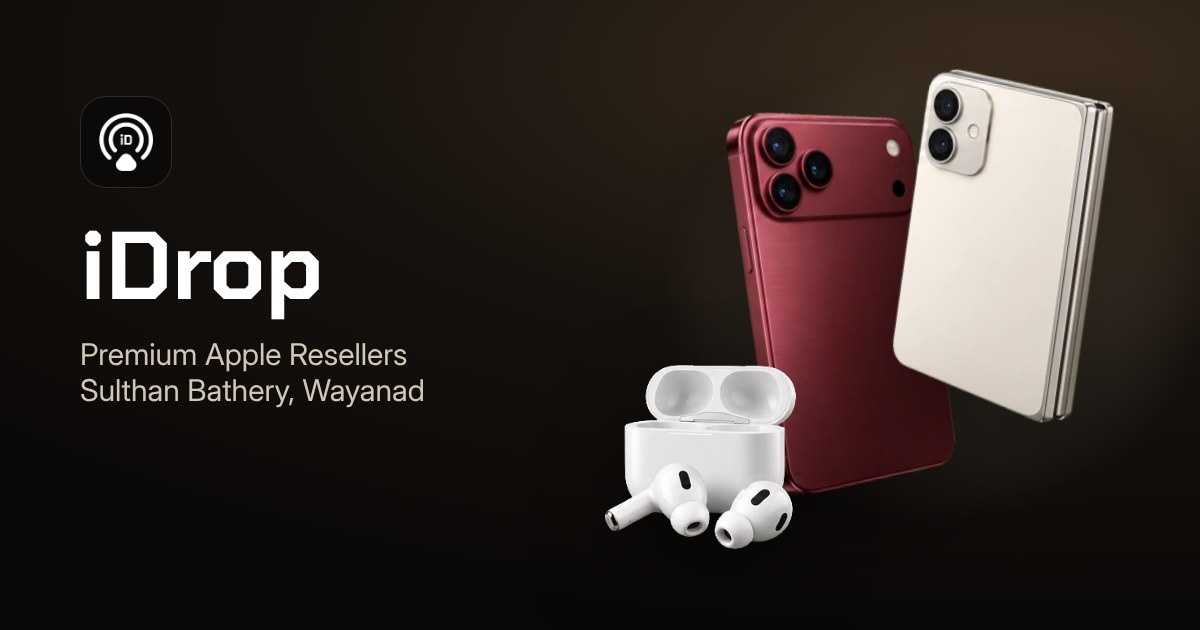
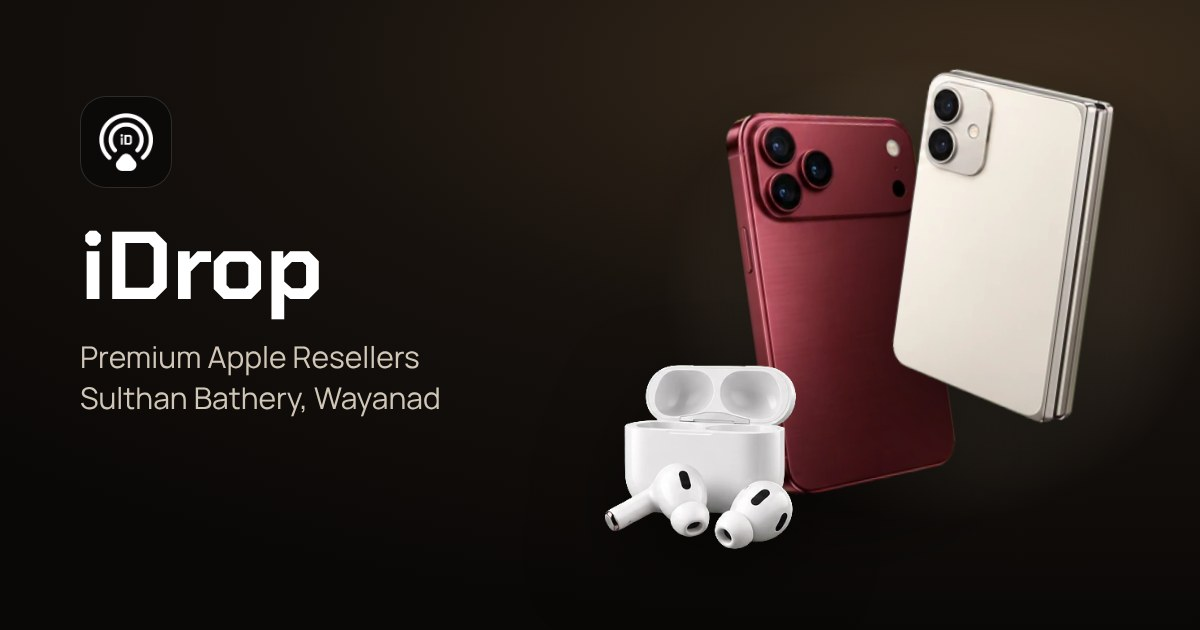
Text in Manrope, titles stay in Chakra Petch; hero without the floating cards
Claude-Session: https://claude.ai/code/session_01XzHKtWWCDNvtcARWjVRUBV

Changed region(s): [[0.0617, 0.5429, 0.37, 0.6635]]

diff --git a/site/assets/idrop.css b/site/assets/idrop.css
@@ -1,10 +1,10 @@
 /* idropdigital.com: Kuree's layout in iDrop's ink and champagne gold, with
-   iDrop's own type: Chakra Petch for titles, Inter for text.
+   iDrop's own type: Chakra Petch for titles, Manrope for text.
    No letter spacing anywhere. */
 @font-face{font-family:"Chakra Petch";font-weight:500;font-style:normal;font-display:swap;src:url(/assets/fonts/chakra-medium.woff2) format("woff2")}
 @font-face{font-family:"Chakra Petch";font-weight:600;font-style:normal;font-display:swap;src:url(/assets/fonts/chakra-semibold.woff2) format("woff2")}
 @font-face{font-family:"Chakra Petch";font-weight:700;font-style:normal;font-display:swap;src:url(/assets/fonts/chakra-bold.woff2) format("woff2")}
-@font-face{font-family:"Inter";font-weight:100 900;font-style:normal;font-display:swap;src:url(/assets/fonts/inter.woff2) format("woff2")}
+@font-face{font-family:"Manrope";font-weight:400 800;font-style:normal;font-display:swap;src:url(/assets/fonts/manrope.woff2) format("woff2")}
 
 :root{
   --ink:#0C0A09;--ink2:#1C1917;--graphite:#292524;--stone7:#44403C;--muted:#6E6762;--stone3:#D6D3D1;--stone2:#E7E5E4;--stone1:#F5F5F4;
@@ -12,7 +12,7 @@
   --gold:#B08D57;--gold2:#D8C3A0;--gold3:#EBDDC4;--goldInk:#7A5C2E;--star:#E0A82E;
   --sand:#F4EEE4;--mist:#EDF0F3;--stoneT:#F0EEEB;--blush:#F5ECE9;--sage:#EDF1EC;
   --fh:"Chakra Petch",system-ui,sans-serif;
-  --fb:"Inter",system-ui,-apple-system,"Segoe UI",sans-serif;
+  --fb:"Manrope",system-ui,-apple-system,"Segoe UI",sans-serif;
   --ease:cubic-bezier(.2,.75,.2,1);
   --sec:120px;
 }

diff --git a/tools/og.html b/tools/og.html
@@ -2,9 +2,9 @@
 <html><head><meta charset="utf-8">
 <style>
 @font-face{font-family:"Chakra Petch";font-weight:700;src:url(../site/assets/fonts/chakra-bold.woff2) format("woff2")}
-@font-face{font-family:"Inter";font-weight:100 900;src:url(../site/assets/fonts/inter.woff2) format("woff2")}
+@font-face{font-family:"Manrope";font-weight:400 800;src:url(../site/assets/fonts/manrope.woff2) format("woff2")}
 html,body{margin:0}
-.og{position:relative;width:1200px;height:630px;overflow:hidden;color:#fff;font-family:Inter,sans-serif;
+.og{position:relative;width:1200px;height:630px;overflow:hidden;color:#fff;font-family:Manrope,sans-serif;
   background:radial-gradient(120% 90% at 85% 10%,#3B2D1E 0%,#16110D 52%,#0A0807 100%)}
 .og::before{content:"";position:absolute;inset:0;background:radial-gradient(420px 360px at 78% 46%,rgba(216,195,160,.32),transparent 65%)}
 .copy{position:absolute;left:80px;top:96px;display:grid;gap:22px}

diff --git a/site/index.html b/site/index.html
@@ -21,7 +21,7 @@
 <meta property="og:image:height" content="630">
 <meta name="twitter:card" content="summary_large_image">
 <link rel="preload" href="/assets/fonts/chakra-bold.woff2" as="font" type="font/woff2" crossorigin>
-<link rel="preload" href="/assets/fonts/inter.woff2" as="font" type="font/woff2" crossorigin>
+<link rel="preload" href="/assets/fonts/manrope.woff2" as="font" type="font/woff2" crossorigin>
 <link rel="preload" href="/assets/3d/iphone-burgundy.webp" as="image">
 <link rel="stylesheet" href="/assets/idrop.css">
 <script type="application/ld+json">

diff --git a/README.md b/README.md
@@ -4,7 +4,7 @@ The website for iDrop, Sulthan Bathery, Wayanad: https://idropdigital.com
 
 | Where | What |
 | --- | --- |
-| `site/` | The site: `index.html`, `assets/idrop.css`, `assets/idrop.js`, fonts (Chakra Petch, Inter), 3D pieces, brand files, the terms PDFs |
+| `site/` | The site: `index.html`, `assets/idrop.css`, `assets/idrop.js`, fonts (Chakra Petch, Manrope), 3D pieces, brand files, the terms PDFs |
 | `deploy/` | `nginx.conf` and the Dokploy compose file |
 | `tools/` | `art/` the 3D source sheets, `key3d.py` that cuts them, `og.html` for the share picture, `brand/` the logo source |
 
